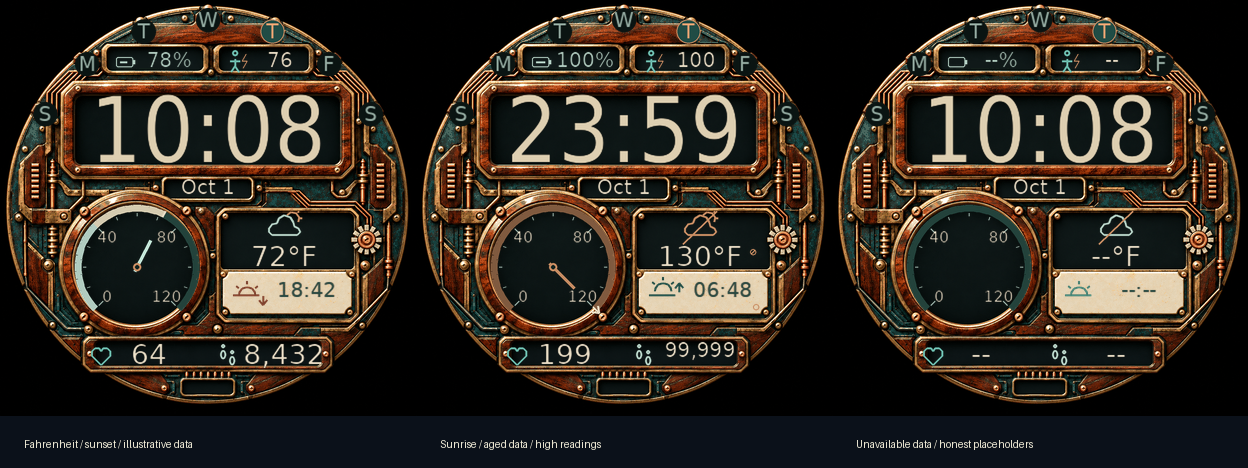
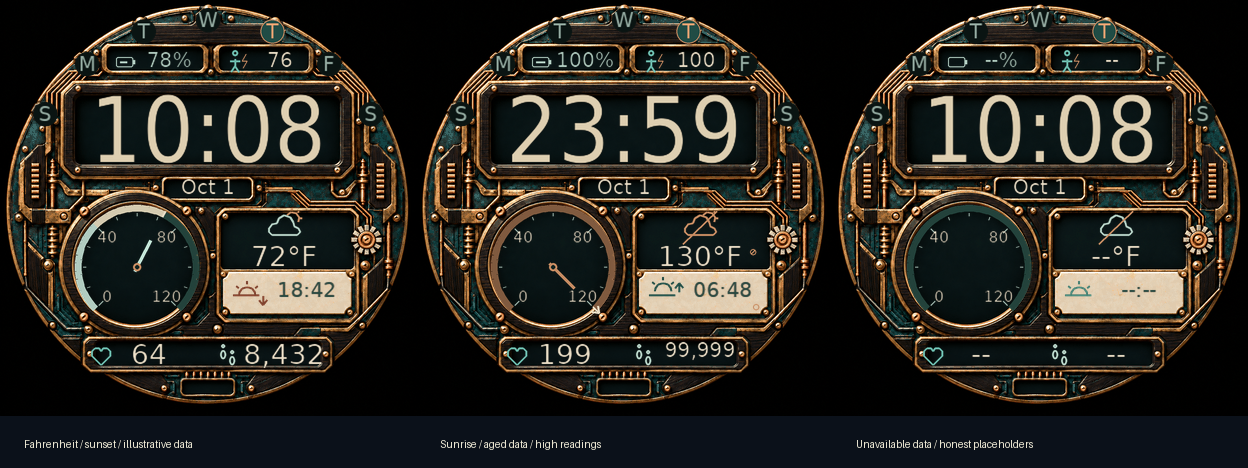
Apply selected ebony-inspired wood to Foundry material resource

diff --git a/tools/render_preview.py b/tools/render_preview.py
@@ -167,11 +167,11 @@ def main():
     docs=ROOT/'docs'; docs.mkdir(exist_ok=True); face=render(); face.save(docs/'preview-416.png')
     hero=Image.new('RGB',(1200,780),'#0b111a'); d=ImageDraw.Draw(hero)
     from PIL import ImageFont
-    d.text((74,50),'PRISMELIER / FOUNDRY',font=ImageFont.truetype('/usr/share/fonts/truetype/dejavu/DejaVuSans.ttf',30),fill=COL['copper'])
-    d.text((74,102),'The warmth of wood. The precision of an instrument.',font=ImageFont.truetype('/usr/share/fonts/truetype/dejavu/DejaVuSans-ExtraLight.ttf',23),fill=COL['ink'])
+    d.text((74,50),'PRISMELIER / FOUNDRY · EBONY',font=ImageFont.truetype('/usr/share/fonts/truetype/dejavu/DejaVuSans.ttf',30),fill=COL['copper'])
+    d.text((74,102),'Dark grain. Warm copper. An everyday time machine.',font=ImageFont.truetype('/usr/share/fonts/truetype/dejavu/DejaVuSans-ExtraLight.ttf',23),fill=COL['ink'])
     hero.paste(face.resize((544,544),Image.Resampling.LANCZOS),(74,174))
-    d.text((686,223),'PATINA. WOOD. PRECISION.',font=ImageFont.truetype('/usr/share/fonts/truetype/dejavu/DejaVuSans.ttf',19),fill='#6ab8aa')
-    d.text((686,264),'Polished hardwood / luminous patina\nA live circular temperature instrument\nSunday-first calendar rim / month + day\nActual material asset used by the code',font=ImageFont.truetype('/usr/share/fonts/truetype/dejavu/DejaVuSans.ttf',17),fill=COL['ink'],spacing=16)
+    d.text((686,223),'EBONY. PATINA. PRECISION.',font=ImageFont.truetype('/usr/share/fonts/truetype/dejavu/DejaVuSans.ttf',19),fill='#6ab8aa')
+    d.text((686,264),'Ebony-inspired grain / luminous patina\nA live circular temperature instrument\nSunday-first calendar rim / month + day\nActual material asset used by the code',font=ImageFont.truetype('/usr/share/fonts/truetype/dejavu/DejaVuSans.ttf',17),fill=COL['ink'],spacing=16)
     d.text((686,477),'Forerunner 265 / 416 × 416',font=ImageFont.truetype('/usr/share/fonts/truetype/dejavu/DejaVuSans.ttf',16),fill=COL['cyan'])
     d.text((686,533),'DESIGN RENDER\nIllustrative data, not a simulator capture',font=ImageFont.truetype('/usr/share/fonts/truetype/dejavu/DejaVuSans.ttf',14),fill=COL['copper'],spacing=8)
     hero.save(docs/'preview.png')

diff --git a/docs/TEXTURE.md b/docs/TEXTURE.md
@@ -4,14 +4,14 @@ The latest Foundry face uses an actual static raster resource, not a texture pas
 
 - Runtime source: `resources/textures/foundry-background-indexed.png`
 - Native dimensions: **416 × 416**, opaque 8-bit indexed PNG, at most **256 colors**
-- Source PNG file size: **107,177 bytes (104.7 KiB)**
+- Source PNG file size: **119,661 bytes (116.9 KiB)**
 - Resource: `Rez.Drawables.FoundryBackground`, declared in `resources/textures/textures.xml`
 - Resource settings: native/default packing, automatic palette, no dithering, compression, transparency disabled
 - Only Foundry uses the raster; the three alternate palettes retain the procedural artwork
 - Source-backed preview: `docs/preview-416.png`; the renderer loads the very same indexed file
 - Icon family: original 2px monoline pictograms at 416px, not platform emoji or baked-in imagery
 
-The artwork combines convex lacquered figured hardwood, raised machined copper/brass, deep teal patina, satin dark ceramic and an ivory ceramic solar tile. Raised inlays and rims use upper-left highlights and lower-right contact shadows/occlusion; recessed wells keep the live graphics clear. Hardware contact shadows and bevels are static. Clean readout wells preserve legibility. Meaningful material pixels remain inside a 204px radius (the round display is 208px), avoiding clipped crown corners. Graphics remain motionless rather than animated.
+The artwork combines convex lacquered ebony-inspired hardwood with fine, directional dark-brown and graphite grain, raised machined copper/brass, deep teal patina, satin dark ceramic and an ivory ceramic solar tile. Raised inlays and rims use upper-left highlights and lower-right contact shadows/occlusion; recessed wells keep the live graphics clear. Hardware contact shadows and bevels are static. Clean readout wells preserve legibility. Meaningful material pixels remain inside a 204px radius (the round display is 208px), avoiding clipped crown corners. Graphics remain motionless rather than animated.
 
 ## What the memory numbers mean
 
@@ -22,7 +22,7 @@ Planning estimates for a single 416px pixel plane, before headers, palette and a
 - 8-bit indexed: **173,056 bytes / 169 KiB**
 - 16-bit RGB565: **346,112 bytes / 338 KiB**
 
-The 104.7 KiB PNG size is compressed storage, **not a runtime RAM measurement**. The actual compiler encoding, graphics-pool occupancy, app heap, decode cost and battery impact still require the official FR265 profile and simulator/hardware. No native memory-fit or battery-life claim is made.
+The 116.9 KiB PNG size is compressed storage, **not a runtime RAM measurement**. The actual compiler encoding, graphics-pool occupancy, app heap, decode cost and battery impact still require the official FR265 profile and simulator/hardware. No native memory-fit or battery-life claim is made.
 
 The implementation keeps one resource reference and loads it outside `onUpdate`. It never calls the reference's `get()` to pin pixel data and never creates another full-screen `BufferedBitmap`. Garmin may still evict/redecode the resource behind that reference. Recoverable resource load/draw errors attempt a procedural fallback; fatal VM memory errors are not claimed to be recoverable.
 
@@ -32,7 +32,7 @@ Sources: [FR265 device reference](https://developer.garmin.com/connect-iq/device
 
 ## Asset provenance and reproduction
 
-The background was generated with OpenAI’s built-in image-generation tool from this project's updated procedural geometry guide and its earlier Foundry texture as references. A second focused pass strengthened raised relief, bevel depth and directional contact shadows without moving the readout wells. It was downsampled directly to 416 × 416 with Lanczos, then packed into an opaque 256-color indexed PNG with no dithering. The geometry guide already includes the black circular safe margin. The selected source image was 1254 × 1254. A user-supplied instrument reference informed the graduated band and calendar layout; that personal reference photo is **not** distributed with this project. No personal readings, credentials, third-party watch artwork or logos are baked into the asset.
+The background was generated with OpenAI’s built-in image-generation tool from this project's updated procedural geometry guide and its earlier Foundry texture as references. A second focused pass strengthened raised relief, bevel depth and directional contact shadows without moving the readout wells. The user selected the ebony-inspired wood study: a focused material-only edit replaced the earlier figured wood with clear directional grain while preserving the same panels, metalwork, relief and readout wells. The selected candidate is used unchanged as the actual Foundry resource. It was downsampled directly to 416 × 416 with Lanczos, then packed into an opaque 256-color indexed PNG with no dithering. The geometry guide already includes the black circular safe margin. The selected source image was 1254 × 1254. A user-supplied instrument reference informed the graduated band and calendar layout; that personal reference photo is **not** distributed with this project. No personal readings, credentials, third-party watch artwork or logos are baked into the asset.
 
 The committed native-resolution asset is sufficient to build. Optional deterministic packing of a newly selected source image:
 
@@ -42,10 +42,16 @@ python tools/prepare_texture.py /path/to/selected-background.png
 
 Generation direction, condensed:
 
-> Preserve the exact geometry guide: two top metric capsules, large upper digital-time visor, small date plate, lower-left circular temperature well, right-side weather bay and pale solar tile, lower health readout and seven outer weekday pockets. Render polished figured walnut/cocobolo wood, copper/brass with gleaming rubbed edges and deep patina, petrol enamel and intricate robotics circuitry. Orthographic front view, no watch body or wrist. Leave all readout wells empty. No text, values, icons, clock indices, hands, temperature needle or band; these are live overlays.
+> Preserve the exact geometry guide: two top metric capsules, large upper digital-time visor, small date plate, lower-left circular temperature well, right-side weather bay and pale solar tile, lower health readout and seven outer weekday pockets. The original relief pass used polished figured walnut/cocobolo wood, copper/brass with gleaming rubbed edges and deep patina, petrol enamel and intricate robotics circuitry. Orthographic front view, no watch body or wrist. Leave all readout wells empty. No text, values, icons, clock indices, hands, temperature needle or band; these are live overlays.
 
 Relief refinement direction:
 
 > Keep all panel positions and the silhouette unchanged. Give proud wood inlays and metal ribs substantial edge thickness, recessed display/gauge wells, undercut lips, raised fastener heads, upper-left specular bevel highlights and soft lower-right contact shadows. Preserve quiet, dark text wells and readable light ceramic. Static material relief, not animated 3D rendering.
+
+Selected ebony material direction:
+
+> Change only the wood to ebony-inspired hardwood: nearly black chocolate/graphite with subtle warm-brown long straight fibers and clear directional grain. No burl, floral figures, rosettes or swirls. Retain the polished sheen, readable grain, raised profiles, bevel thickness, existing lighting, copper/brass, teal patina, electronics, silhouette and exact readout-well geometry.
+
[1 lines of base64/hex data omitted]
 
 Live anchors were refined after visual review: time at y=77, month/day at y=175, temperature dial centered at (137,267), separate weather/°F reading to its right, and sensor values at y=338. The source and preview compositor use the same coordinates. Native-size and enlarged reviews covered missing/aged weather, endpoint overflow, long dates and extreme metric widths. Always inspect new artwork against every state before replacing the runtime resource.

diff --git a/docs/QA.md b/docs/QA.md
@@ -19,7 +19,7 @@ test has succeeded; there is still no installable artifact. See [CI setup](CI.md
 The CI unit fixtures test failure handling and never represent Garmin profiles or
 compiled programs.
 
-## Latest design result, 1 October 2026, 14:34 UTC
+## Latest design result, 1 October 2026, 14:58 UTC
 
 - SDK 9.2.0 and Pillow available: **49 tests passed**, including a fresh parser
   run against all source files, 52 API owner/method pairs and argument
@@ -28,10 +28,10 @@ compiled programs.
 - Standard-library-only run, with SDK environment variables removed and Python
   site packages disabled: **40 tests passed, 9 optional checks skipped**
 - Foundry background: one referenced **416×416, 256-color, opaque indexed PNG**,
-  **107,177 bytes** on disk. PNG structure, chunk checksums, palette, compressed
+  **119,661 bytes** on disk. PNG structure, chunk checksums, palette, compressed
   scanline payload, XML options, and awake-only reference use are checked
-- Circular artwork safety: **116,606 pixels** with maximum RGB channel above 8
-  lie within a **203.5055px radius**, passing the 204px guard inside the 208px
+- Circular artwork safety: **113,291 pixels** with maximum RGB channel above 8
+  lie within a **203.5154px radius**, passing the 204px guard inside the 208px
   screen radius. This checks the committed bitmap, not hardware rendering
 - Palette consistency: **4 themes × 67 color entries** match the committed
   `themes.json`; the ambient ink and black background are unchanged in every
@@ -41,6 +41,8 @@ compiled programs.
   135,948-pixel circular screen model, at `08:08`, including the conservative
   one-pixel halo. All 2,880 12/24-hour clock strings and all three bands were
   covered. The three all-times band unions were pairwise disjoint
+
+The selected ebony-inspired candidate is byte-identical to the committed Foundry texture. The Oct 24/Saturday native-size render is pixel-identical to the reviewed ebony study; only the chosen material changed. Fresh native-size, enlarged, unavailable/stale and extreme-value renders were visually reviewed. The manual CI workflow and all Monkey C sources remain unchanged from the calendar/gauge checkpoint.
 
 The latest parser check includes the implemented Foundry material bitmap,
 monoline live-data icons, circular Fahrenheit temperature band, weather and solar icons,
@@ -149,10 +151,10 @@ does not prevent eviction or guarantee a single decode; Garmin may reload it.
 The implementation requests the reference on layout or Foundry selection,
 releases it when selecting a different theme, and draws it only while awake.
 
-The source PNG is **107,177 bytes (about 104.7 KiB)**. That is compressed file size,
+The source PNG is **119,661 bytes (about 116.9 KiB)**. That is compressed file size,
 **not RAM usage**, compiled PRG size, or a measured graphics-pool footprint.
 Its SHA256 is
[2 lines of base64/hex data omitted]
 An uncompressed 8-bit 416×416 pixel plane is 173,056 bytes (169 KiB), before
 palette/alignment/metadata; a 16-bit plane would be 346,112 bytes (338 KiB).
 The compiler's actual encoding and runtime allocation remain unmeasured.

diff --git a/README.md b/README.md
@@ -2,7 +2,7 @@
 
 **Impossible materials. An everyday time machine.**
 
-A bespoke, futuristic-steampunk digital watch face for the **Garmin Forerunner 265**. The default **Foundry** theme pairs warm ivory numerals with a circular speedometer-style Fahrenheit gauge and **hyperreal material textures from a real 416px bitmap resource**. Raised polished hardwood, gleaming patinated copper, petrol enamel and an asymmetric ceramic solar insert sit on a meticulously routed robotics backplane: pin headers, copper flex traces, actuator housings and a miniature processor package. A Sunday-first weekday rim highlights the current day, and a month/day window shows dates such as **Oct 24**. Main time stays digital; the needle belongs only to temperature.
+A bespoke, futuristic-steampunk digital watch face for the **Garmin Forerunner 265**. The default **Foundry** theme pairs warm ivory numerals with a circular speedometer-style Fahrenheit gauge and **hyperreal material textures from a real 416px bitmap resource**. Raised polished ebony-inspired wood with clear directional grain, gleaming patinated copper, petrol enamel and an asymmetric ceramic solar insert sit on a meticulously routed robotics backplane: pin headers, copper flex traces, actuator housings and a miniature processor package. A Sunday-first weekday rim highlights the current day, and a month/day window shows dates such as **Oct 24**. Main time stays digital; the needle belongs only to temperature.
 
 ![Prismelier design render, with illustrative values](docs/preview.png)
 
@@ -19,7 +19,7 @@ A bespoke, futuristic-steampunk digital watch face for the **Garmin Forerunner 2
 - **Body Battery score** (0–100) beside a distinct person/energy-bolt icon
 - **Next sunrise or sunset**, automatically switching to the next event, with distinct rising/sinking sun and up/down-arrow icons
 - **Recent heart rate** in BPM and the exact daily step count
-- Raised lacquered hardwood, machined copper/brass, deep patina and recessed ceramic wells; consistent highlights/contact shadows create convincing static 3D relief
+- Raised lacquered ebony-inspired wood, machined copper/brass, deep patina and recessed ceramic wells; consistent highlights/contact shadows create convincing static 3D relief
 - Textured circuit-board surfaces, exposed gearwork, fasteners, inlaid traces and actuator housings
 - Consistent thin-line weather, sunrise/sunset and metric pictograms drawn live over the texture
 - Sparse, dim, moving digital-time-only **always-on display**
